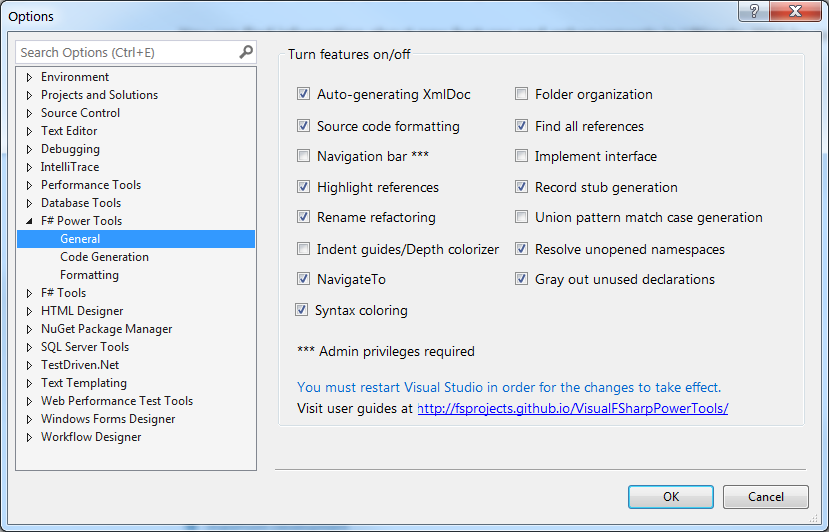
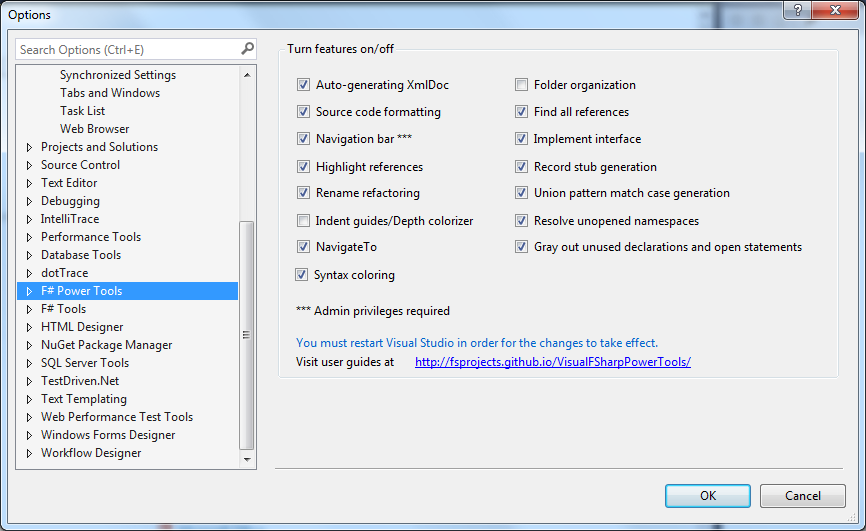
update general settings page
update syntax coloring documentation

diff --git a/src/FSharpVSPowerTools/GeneralOptionsControl.Designer.cs b/src/FSharpVSPowerTools/GeneralOptionsControl.Designer.cs
@@ -76,7 +76,7 @@ namespace FSharpVSPowerTools
             this.grbOptions.Controls.Add(this.chbXmlDoc);
             this.grbOptions.Location = new System.Drawing.Point(3, 3);
             this.grbOptions.Name = "grbOptions";
-            this.grbOptions.Size = new System.Drawing.Size(452, 293);
+            this.grbOptions.Size = new System.Drawing.Size(481, 293);
             this.grbOptions.TabIndex = 0;
             this.grbOptions.TabStop = false;
             this.grbOptions.Text = "Turn features on/off";
@@ -88,9 +88,9 @@ namespace FSharpVSPowerTools
             this.chbUnusedDeclarations.CheckState = System.Windows.Forms.CheckState.Checked;
             this.chbUnusedDeclarations.Location = new System.Drawing.Point(203, 171);
             this.chbUnusedDeclarations.Name = "chbUnusedDeclarations";
-            this.chbUnusedDeclarations.Size = new System.Drawing.Size(185, 19);
+            this.chbUnusedDeclarations.Size = new System.Drawing.Size(266, 17);
             this.chbUnusedDeclarations.TabIndex = 17;
-            this.chbUnusedDeclarations.Text = "Gray out unused declarations";
+            this.chbUnusedDeclarations.Text = "Gray out unused declarations and open statements";
             this.chbUnusedDeclarations.UseVisualStyleBackColor = true;
             // 
             // chbResolveUnopenedNamespaces
@@ -100,7 +100,7 @@ namespace FSharpVSPowerTools
             this.chbResolveUnopenedNamespaces.CheckState = System.Windows.Forms.CheckState.Checked;
             this.chbResolveUnopenedNamespaces.Location = new System.Drawing.Point(203, 148);
             this.chbResolveUnopenedNamespaces.Name = "chbResolveUnopenedNamespaces";
-            this.chbResolveUnopenedNamespaces.Size = new System.Drawing.Size(203, 19);
+            this.chbResolveUnopenedNamespaces.Size = new System.Drawing.Size(179, 17);
             this.chbResolveUnopenedNamespaces.TabIndex = 16;
             this.chbResolveUnopenedNamespaces.Text = "Resolve unopened namespaces";
             this.chbResolveUnopenedNamespaces.UseVisualStyleBackColor = true;
@@ -112,7 +112,7 @@ namespace FSharpVSPowerTools
             this.chbUnionPatternMatchCaseGeneration.CheckState = System.Windows.Forms.CheckState.Checked;
             this.chbUnionPatternMatchCaseGeneration.Location = new System.Drawing.Point(203, 124);
             this.chbUnionPatternMatchCaseGeneration.Name = "chbUnionPatternMatchCaseGeneration";
-            this.chbUnionPatternMatchCaseGeneration.Size = new System.Drawing.Size(228, 19);
+            this.chbUnionPatternMatchCaseGeneration.Size = new System.Drawing.Size(201, 17);
             this.chbUnionPatternMatchCaseGeneration.TabIndex = 16;
             this.chbUnionPatternMatchCaseGeneration.Text = "Union pattern match case generation";
             this.chbUnionPatternMatchCaseGeneration.UseVisualStyleBackColor = true;
@@ -124,7 +124,7 @@ namespace FSharpVSPowerTools
             this.chbRecordStubGeneration.CheckState = System.Windows.Forms.CheckState.Checked;
             this.chbRecordStubGeneration.Location = new System.Drawing.Point(203, 101);
             this.chbRecordStubGeneration.Name = "chbRecordStubGeneration";
-            this.chbRecordStubGeneration.Size = new System.Drawing.Size(154, 19);
+            this.chbRecordStubGeneration.Size = new System.Drawing.Size(137, 17);
             this.chbRecordStubGeneration.TabIndex = 15;
             this.chbRecordStubGeneration.Text = "Record stub generation";
             this.chbRecordStubGeneration.UseVisualStyleBackColor = true;
@@ -136,7 +136,7 @@ namespace FSharpVSPowerTools
             this.chbFindAllReferences.CheckState = System.Windows.Forms.CheckState.Checked;
             this.chbFindAllReferences.Location = new System.Drawing.Point(203, 54);
             this.chbFindAllReferences.Name = "chbFindAllReferences";
-            this.chbFindAllReferences.Size = new System.Drawing.Size(127, 19);
+            this.chbFindAllReferences.Size = new System.Drawing.Size(112, 17);
             this.chbFindAllReferences.TabIndex = 14;
             this.chbFindAllReferences.Text = "Find all references";
             this.chbFindAllReferences.UseVisualStyleBackColor = true;
@@ -146,7 +146,7 @@ namespace FSharpVSPowerTools
             this.lblInformation.AutoSize = true;
             this.lblInformation.Location = new System.Drawing.Point(13, 227);
             this.lblInformation.Name = "lblInformation";
-            this.lblInformation.Size = new System.Drawing.Size(164, 15);
+            this.lblInformation.Size = new System.Drawing.Size(139, 13);
             this.lblInformation.TabIndex = 13;
             this.lblInformation.Text = "*** Admin privileges required";
             // 
@@ -155,7 +155,7 @@ namespace FSharpVSPowerTools
             this.chbInterfaceImplementation.AutoSize = true;
             this.chbInterfaceImplementation.Location = new System.Drawing.Point(203, 77);
             this.chbInterfaceImplementation.Name = "chbInterfaceImplementation";
-            this.chbInterfaceImplementation.Size = new System.Drawing.Size(135, 19);
+            this.chbInterfaceImplementation.Size = new System.Drawing.Size(118, 17);
             this.chbInterfaceImplementation.TabIndex = 12;
             this.chbInterfaceImplementation.Text = "Implement interface";
             this.chbInterfaceImplementation.UseVisualStyleBackColor = true;
@@ -165,7 +165,7 @@ namespace FSharpVSPowerTools
             this.chbFolderOrganization.AutoSize = true;
             this.chbFolderOrganization.Location = new System.Drawing.Point(203, 30);
             this.chbFolderOrganization.Name = "chbFolderOrganization";
-            this.chbFolderOrganization.Size = new System.Drawing.Size(132, 19);
+            this.chbFolderOrganization.Size = new System.Drawing.Size(115, 17);
             this.chbFolderOrganization.TabIndex = 12;
             this.chbFolderOrganization.Text = "Folder organization";
             this.chbFolderOrganization.UseVisualStyleBackColor = true;
@@ -177,7 +177,7 @@ namespace FSharpVSPowerTools
             this.chbSyntaxColoring.CheckState = System.Windows.Forms.CheckState.Checked;
             this.chbSyntaxColoring.Location = new System.Drawing.Point(15, 195);
             this.chbSyntaxColoring.Name = "chbSyntaxColoring";
-            this.chbSyntaxColoring.Size = new System.Drawing.Size(109, 19);
+            this.chbSyntaxColoring.Size = new System.Drawing.Size(98, 17);
             this.chbSyntaxColoring.TabIndex = 11;
             this.chbSyntaxColoring.Text = "Syntax coloring";
             this.chbSyntaxColoring.UseVisualStyleBackColor = true;
@@ -189,7 +189,7 @@ namespace FSharpVSPowerTools
             this.chbNavigateTo.CheckState = System.Windows.Forms.CheckState.Checked;
             this.chbNavigateTo.Location = new System.Drawing.Point(16, 171);
             this.chbNavigateTo.Name = "chbNavigateTo";
-            this.chbNavigateTo.Size = new System.Drawing.Size(88, 19);
+            this.chbNavigateTo.Size = new System.Drawing.Size(82, 17);
             this.chbNavigateTo.TabIndex = 10;
             this.chbNavigateTo.Text = "NavigateTo";
             this.chbNavigateTo.UseVisualStyleBackColor = true;
@@ -199,7 +199,7 @@ namespace FSharpVSPowerTools
             this.chbDepthColorizer.AutoSize = true;
             this.chbDepthColorizer.Location = new System.Drawing.Point(16, 148);
             this.chbDepthColorizer.Name = "chbDepthColorizer";
-            this.chbDepthColorizer.Size = new System.Drawing.Size(186, 19);
+            this.chbDepthColorizer.Size = new System.Drawing.Size(166, 17);
             this.chbDepthColorizer.TabIndex = 9;
             this.chbDepthColorizer.Text = "Indent guides/Depth colorizer";
             this.chbDepthColorizer.UseVisualStyleBackColor = true;
@@ -211,7 +211,7 @@ namespace FSharpVSPowerTools
             this.chbRenameRefactoring.CheckState = System.Windows.Forms.CheckState.Checked;
             this.chbRenameRefactoring.Location = new System.Drawing.Point(16, 124);
             this.chbRenameRefactoring.Name = "chbRenameRefactoring";
-            this.chbRenameRefactoring.Size = new System.Drawing.Size(135, 19);
+            this.chbRenameRefactoring.Size = new System.Drawing.Size(119, 17);
             this.chbRenameRefactoring.TabIndex = 8;
             this.chbRenameRefactoring.Text = "Rename refactoring";
             this.chbRenameRefactoring.UseVisualStyleBackColor = true;
@@ -223,7 +223,7 @@ namespace FSharpVSPowerTools
             this.chbHighlightUsage.CheckState = System.Windows.Forms.CheckState.Checked;
             this.chbHighlightUsage.Location = new System.Drawing.Point(16, 101);
             this.chbHighlightUsage.Name = "chbHighlightUsage";
-            this.chbHighlightUsage.Size = new System.Drawing.Size(136, 19);
+            this.chbHighlightUsage.Size = new System.Drawing.Size(120, 17);
             this.chbHighlightUsage.TabIndex = 7;
             this.chbHighlightUsage.Text = "Highlight references";
             this.chbHighlightUsage.UseVisualStyleBackColor = true;
@@ -233,7 +233,7 @@ namespace FSharpVSPowerTools
             this.chbNavBar.AutoSize = true;
             this.chbNavBar.Location = new System.Drawing.Point(16, 77);
             this.chbNavBar.Name = "chbNavBar";
-            this.chbNavBar.Size = new System.Drawing.Size(123, 19);
+            this.chbNavBar.Size = new System.Drawing.Size(110, 17);
             this.chbNavBar.TabIndex = 6;
             this.chbNavBar.Text = "Navigation bar ***";
             this.chbNavBar.UseVisualStyleBackColor = true;
@@ -244,7 +244,7 @@ namespace FSharpVSPowerTools
             this.lblInfo.ForeColor = System.Drawing.SystemColors.HotTrack;
             this.lblInfo.Location = new System.Drawing.Point(13, 255);
             this.lblInfo.Name = "lblInfo";
-            this.lblInfo.Size = new System.Drawing.Size(375, 15);
+            this.lblInfo.Size = new System.Drawing.Size(331, 13);
             this.lblInfo.TabIndex = 5;
             this.lblInfo.Text = "You must restart Visual Studio in order for the changes to take effect.";
             // 
@@ -253,7 +253,7 @@ namespace FSharpVSPowerTools
             this.lblTitle.AutoSize = true;
             this.lblTitle.Location = new System.Drawing.Point(13, 271);
             this.lblTitle.Name = "lblTitle";
-            this.lblTitle.Size = new System.Drawing.Size(109, 15);
+            this.lblTitle.Size = new System.Drawing.Size(95, 13);
             this.lblTitle.TabIndex = 4;
             this.lblTitle.Text = "Visit user guides at";
             // 
@@ -262,7 +262,7 @@ namespace FSharpVSPowerTools
             this.lblHome.AutoSize = true;
             this.lblHome.Location = new System.Drawing.Point(115, 271);
             this.lblHome.Name = "lblHome";
-            this.lblHome.Size = new System.Drawing.Size(282, 15);
+            this.lblHome.Size = new System.Drawing.Size(254, 13);
             this.lblHome.TabIndex = 3;
             this.lblHome.TabStop = true;
             this.lblHome.Text = "http://fsprojects.github.io/VisualFSharpPowerTools/";
@@ -275,7 +275,7 @@ namespace FSharpVSPowerTools
             this.chbFormatting.CheckState = System.Windows.Forms.CheckState.Checked;
             this.chbFormatting.Location = new System.Drawing.Point(16, 54);
             this.chbFormatting.Name = "chbFormatting";
-            this.chbFormatting.Size = new System.Drawing.Size(153, 19);
+            this.chbFormatting.Size = new System.Drawing.Size(136, 17);
             this.chbFormatting.TabIndex = 2;
             this.chbFormatting.Text = "Source code formatting";
             this.chbFormatting.UseVisualStyleBackColor = true;
@@ -288,7 +288,7 @@ namespace FSharpVSPowerTools
             this.chbXmlDoc.Location = new System.Drawing.Point(16, 30);
             this.chbXmlDoc.Name = "chbXmlDoc";
             this.chbXmlDoc.RightToLeft = System.Windows.Forms.RightToLeft.No;
-            this.chbXmlDoc.Size = new System.Drawing.Size(160, 19);
+            this.chbXmlDoc.Size = new System.Drawing.Size(141, 17);
             this.chbXmlDoc.TabIndex = 1;
             this.chbXmlDoc.Text = "Auto-generating XmlDoc";
             this.chbXmlDoc.UseVisualStyleBackColor = true;
